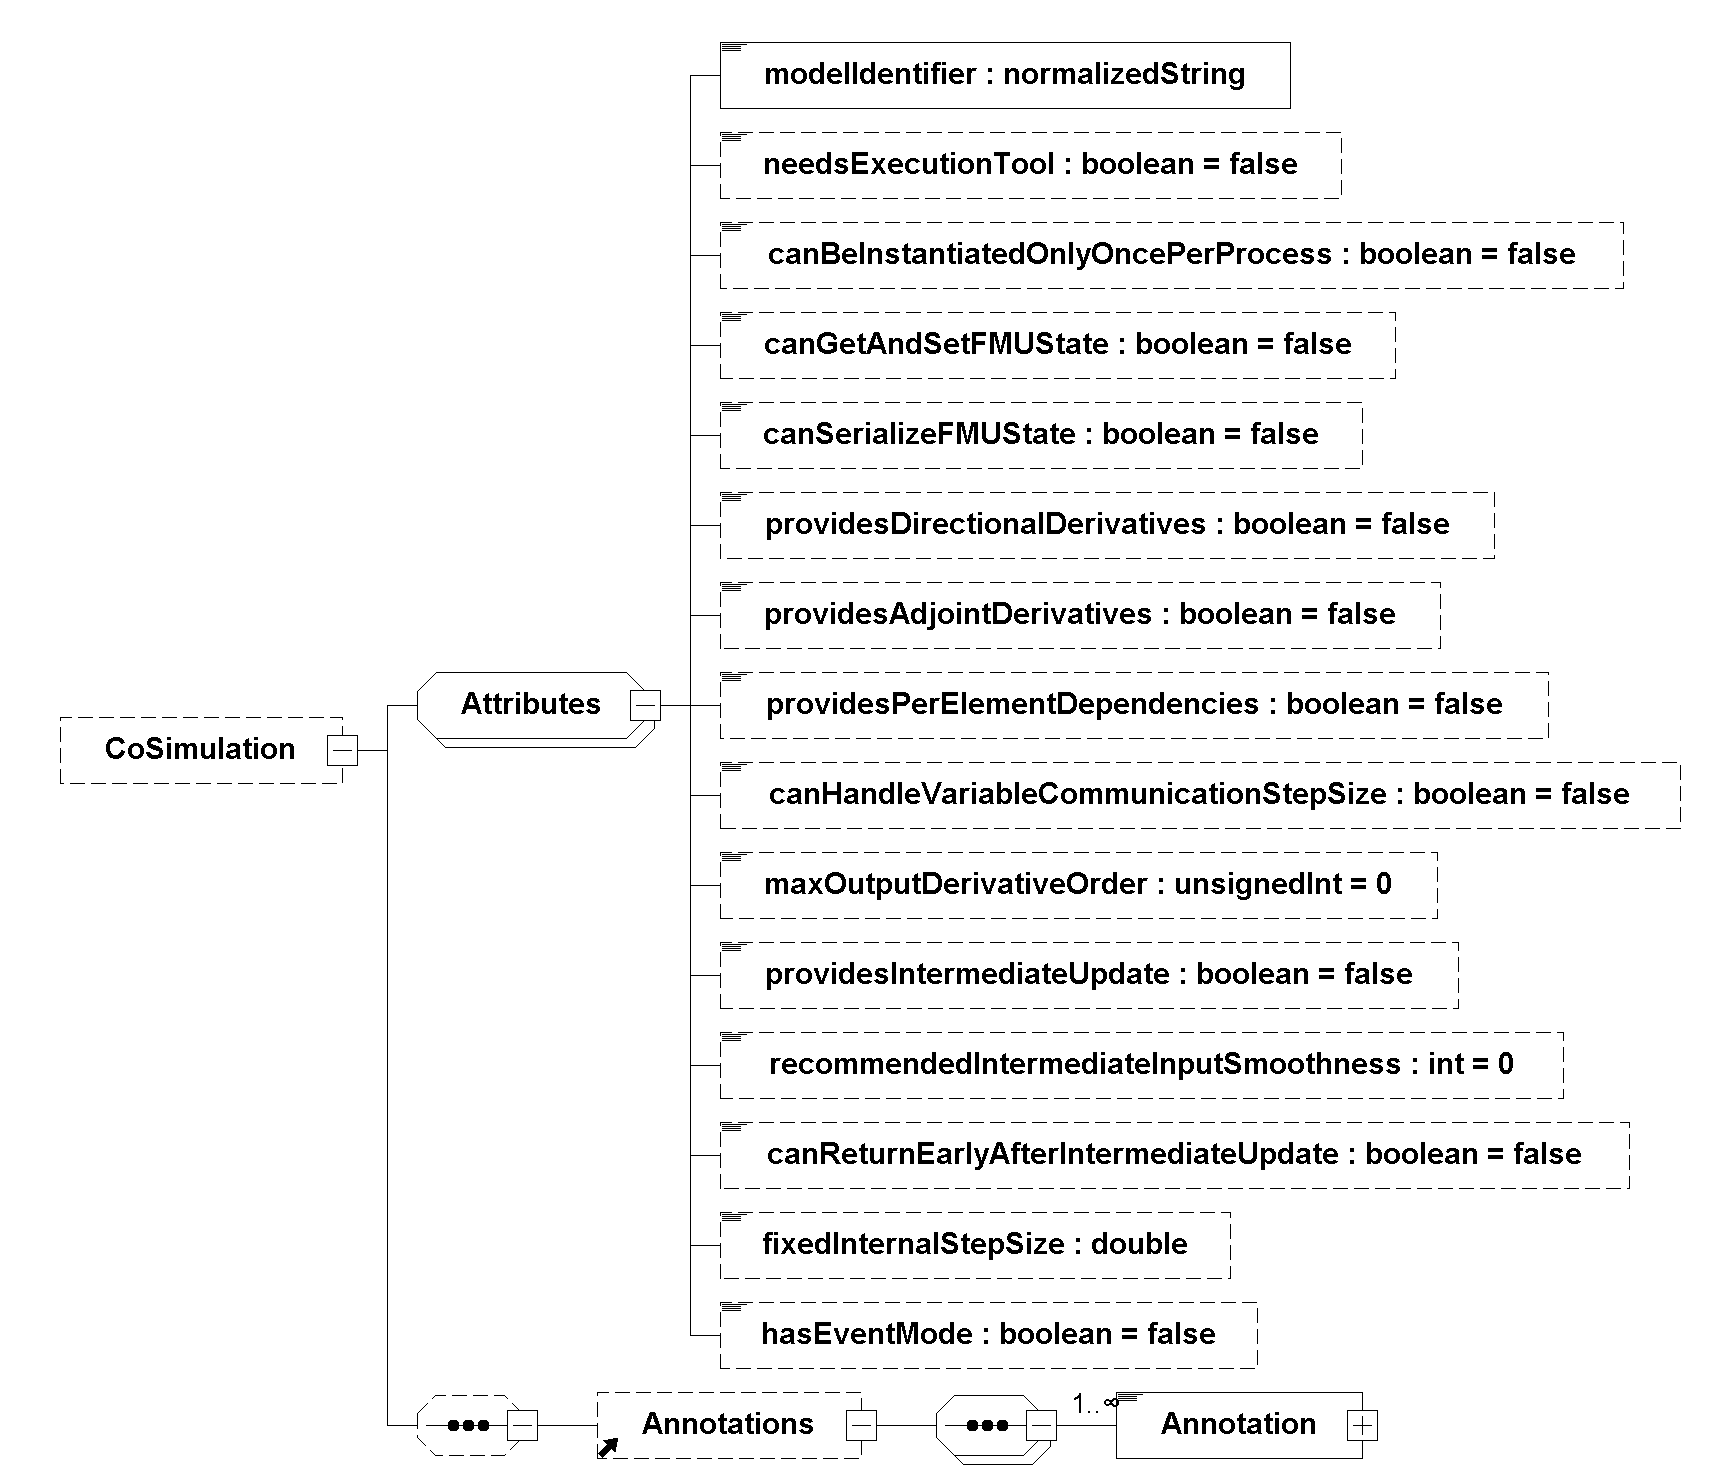
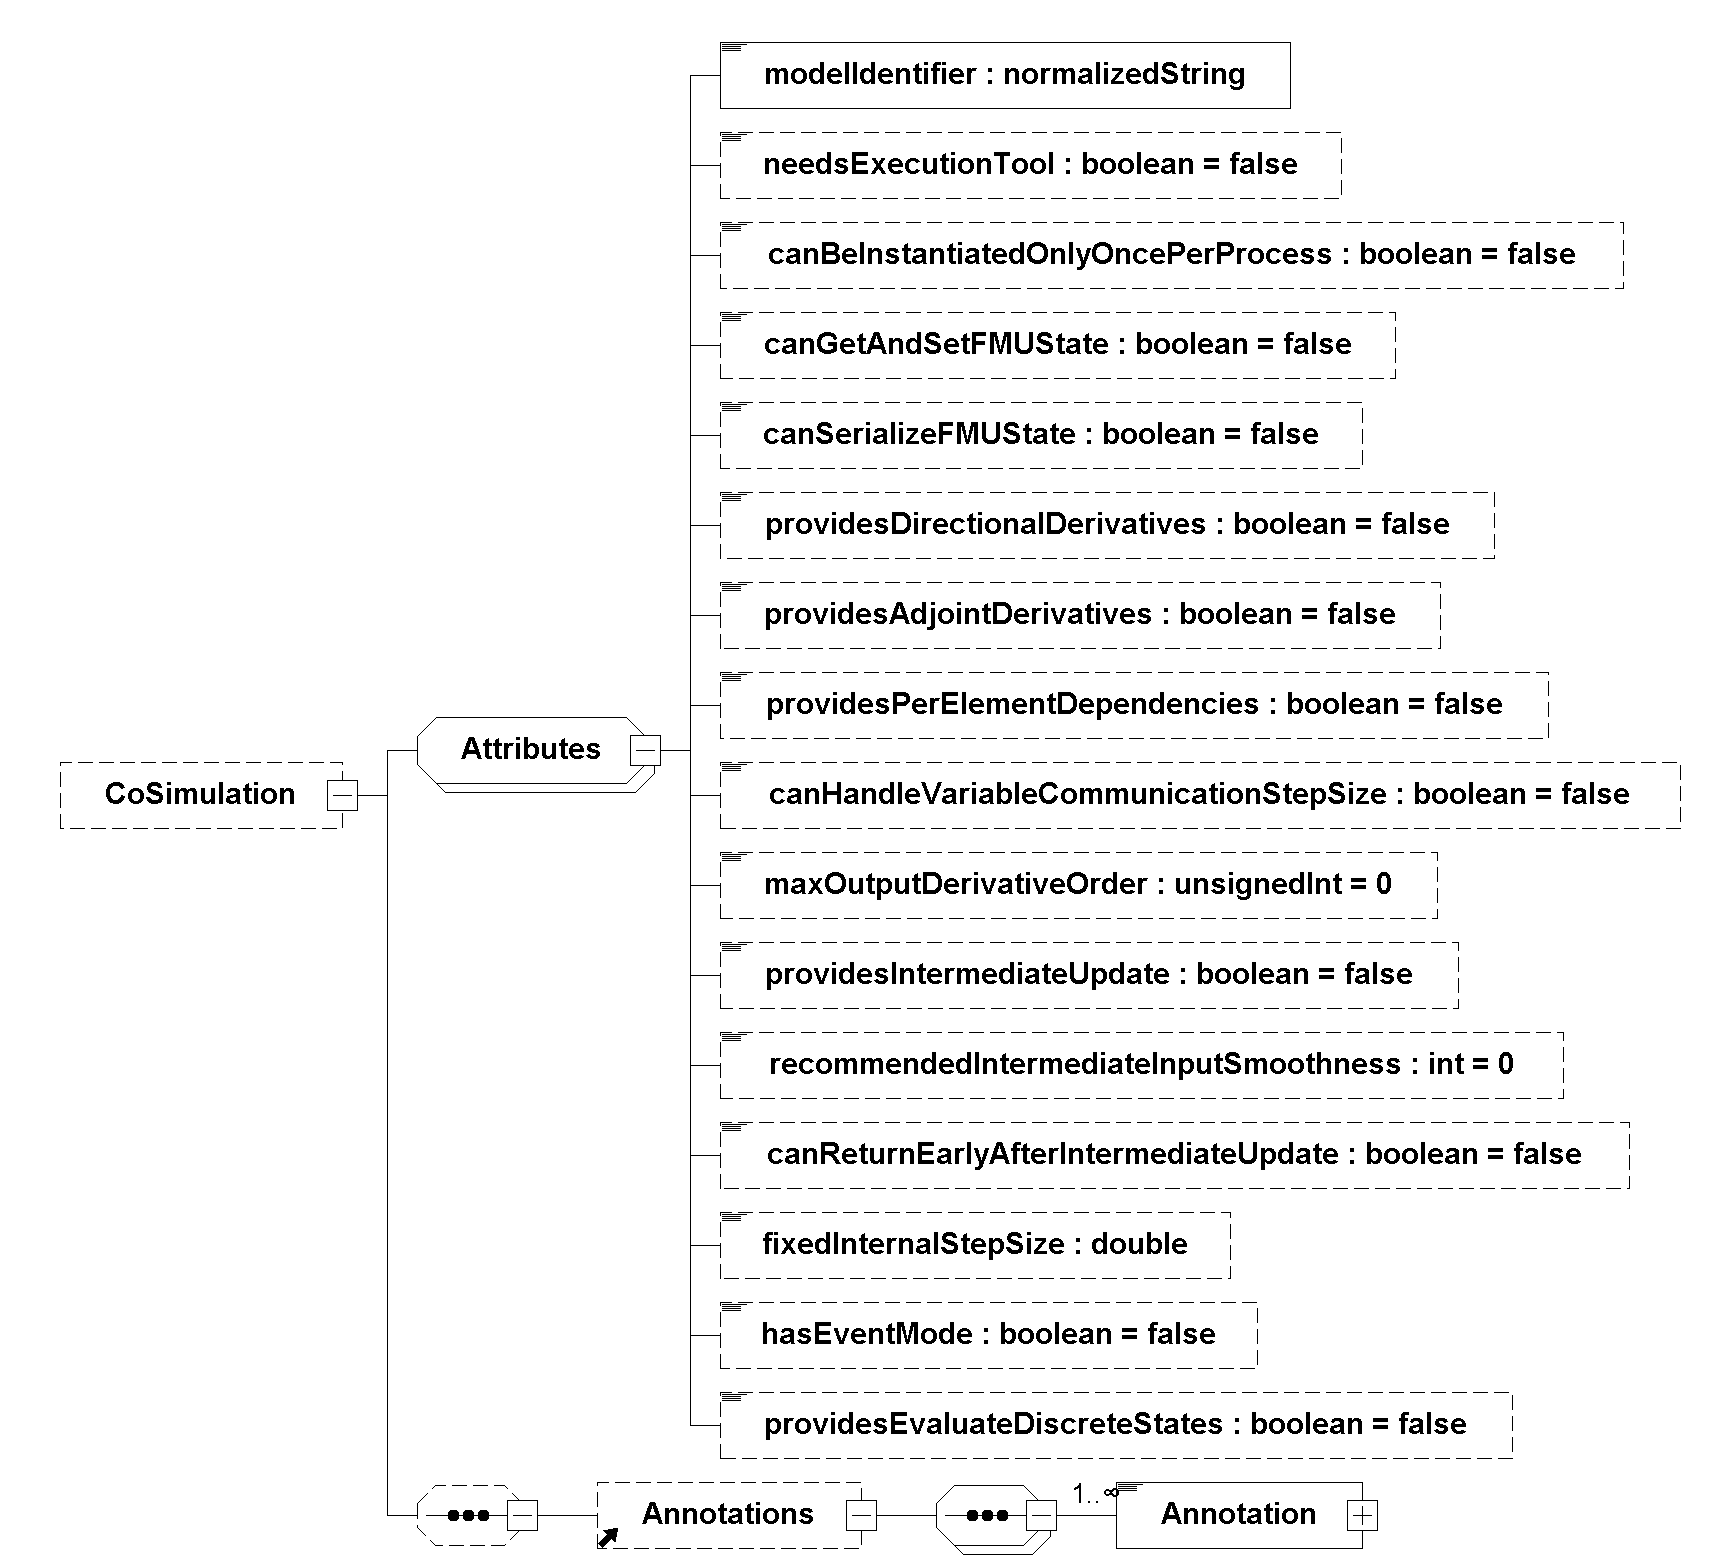
Update generated specification from fmi-standard (5e0f688)

diff --git a/docs/3.0-dev/index.html b/docs/3.0-dev/index.html
@@ -587,8 +587,8 @@ document.addEventListener('keydown', (event) => {
 <div id="header">
 <h1>Functional Mock-up Interface Specification</h1>
 <div class="details">
-<span id="revnumber">version 77d1760,</span>
-<span id="revdate">2021-07-28</span>
+<span id="revnumber">version 5e0f688,</span>
+<span id="revdate">2021-07-29</span>
 </div>
 <div id="toc" class="toc2">
 <div id="toctitle">Contents</div>
@@ -1398,8 +1398,7 @@ The real part \(\mathbf{t}_R\) of this tuple is the <a href="#independent"><code
 During continuous-time integration \(\mathbf{t}_I = 0\).
 The integer part \(\mathbf{t}_I\) of this tuple is a counter to enumerate (and therefore distinguish) the events at the same continuous-time instant \(\mathbf{t}_R\).
 This time definition is also called "super-dense time" in literature, see, for example, <a href="#LZ07">[LZ07]</a>.
-An ordering is defined on \(\mathbb{\text{T}}\) that leads to the notation in <a href="#table-model-exchange-math-notation">Table 2</a>.
-<em>[The notation \(^{\bullet}\mathbf{t}\) is from <a href="#BCP10">BCP10</a>, adapted from non-standard analysis to super-dense time, in order to precisely define the value from the previous event iteration.]</em></p>
+An ordering is defined on \(\mathbb{\text{T}}\) that leads to the notation in <a href="#table-model-exchange-math-notation">Table 2</a>.</p>
 </div>
 <table id="table-model-exchange-math-notation" class="tableblock frame-all grid-all stretch">
 <caption class="title">Table 2. Conventions and notation used.</caption>
@@ -1436,11 +1435,6 @@ An ordering is defined on \(\mathbb{\text{T}}\) that leads to the notation in <a
 <td class="tableblock halign-left valign-top"><p class="tableblock">left limit at \(\mathbf{t}\)</p></td>
 </tr>
 <tr>
-<td class="tableblock halign-center valign-top"><p class="tableblock">\(^{\bullet}\mathbf{t}\)</p></td>
-<td class="tableblock halign-left valign-top"><p class="tableblock">\(^{\bullet}{\left( \mathbf{t}_R,\mathbf{t}_I \right)\ } \Leftrightarrow \left\{ \begin{matrix} ^-t \ &amp; \mathbf{if} \ \mathbf{t}_I = 0 \\ (\mathbf{t}_R, \mathbf{t}_I - 1) \ &amp; \mathbf{if} \ \mathbf{t}_I &gt; 0 \\ \end{matrix} \right.\)</p></td>
-<td class="tableblock halign-left valign-top"><p class="tableblock">previous time instant (= either left limit or previous event instant).</p></td>
-</tr>
-<tr>
 <td class="tableblock halign-center valign-top"><p class="tableblock">\(v^+(\mathbf{t})\)</p></td>
 <td class="tableblock halign-left valign-top"><p class="tableblock">\(v(\mathbf{t}^+)\)</p></td>
 <td class="tableblock halign-left valign-top"><p class="tableblock">value at the right limit of \(\mathbf{t}\)</p></td>
@@ -1452,8 +1446,21 @@ An ordering is defined on \(\mathbb{\text{T}}\) that leads to the notation in <a
 </tr>
 <tr>
 <td class="tableblock halign-center valign-top"><p class="tableblock">\(^{\bullet}v(\mathbf{t})\)</p></td>
-<td class="tableblock halign-left valign-top"><p class="tableblock">\(v(^{\bullet}\mathbf{t})\)</p></td>
-<td class="tableblock halign-left valign-top"><p class="tableblock">previous value (= either left limit or value from the previous super-dense time instant)</p></td>
+<td class="tableblock halign-left valign-top"><p class="tableblock">\(
+\begin{cases}
+^{\bullet}v(t) \\
+^{\bullet}v(\left( \mathbf{t}_R,\mathbf{t}_I \right))
+\end{cases}
+\Leftrightarrow
+\begin{cases}
+ v(^-t) &amp; \text{ during } v(\left( \mathbf{t}_R, 0 \right)) \text{, v not clocked }  \\
+ v(\left( \mathbf{t}_R,\mathbf{t}_I - 1 \right)) &amp; \text{ for } v(\left( \mathbf{t}_R,\mathbf{t}_I \right)) \text{ with } I &gt; 0  \text{, v not clocked } \\
+ v \text{ at previous tick of C } &amp; \text{ if } v \text{ for clocked variable } v \text{ of clock C}
+\end{cases}
+\)</p></td>
+<td class="tableblock halign-left valign-top"><div class="content"><div class="paragraph">
+<p>previous value</p>
+</div></div></td>
 </tr>
 </tbody>
 </table>
@@ -2981,13 +2988,13 @@ Must be retrieved in <a href="#InitializationMode"><strong>Initialization Mode</
 <h5 id="clocked-variable">2.2.9.3. Model Partitions and Clocked Variables</h5>
 <div class="paragraph">
 <p>Each Clock \(\mathbf{k}\) induces a discrete system.
-It&#8217;s state advances at each tick of \(\mathbf{k}\) at time \(\mathbf{t}_{k}\).
-Such a system, also called the <a href="#model-partition">model partition</a> of \(\mathbf{k}\), is commonly written as:</p>
+It&#8217;s state advances at each tick of \(\mathbf{k}\).
+Such a system, also called the <a href="#model-partition">model partition</a> of \(\mathbf{k}\), is written as:</p>
 </div>
 <div class="paragraph">
 <p>\(\begin{align*}
-\mathbf{x}_k(\mathbf{t}_{k}) &amp;= \mathbf{f}_k(\mathbf{x}_k(\mathbf{t}_{k-1}), \mathbf{u}(\mathbf{t}_k), \mathbf{t}_k) \\
-\mathbf{y}_k(\mathbf{t}_{k}) &amp;= \mathbf{g}_k(\mathbf{x}_k(\mathbf{t}_{k}), \mathbf{u}(\mathbf{t}_k), \mathbf{t}_k)
+(\mathbf{x}_k) &amp;:= \mathbf{f}_{disc}(^\bullet{\mathbf{x}_k}, \mathbf{u}, \mathbf{t}) \\
+(\mathbf{y}_k) &amp;:= \mathbf{f}_{event}(\mathbf{x}_k, \mathbf{u}, \mathbf{t})
 \end{align*}\)</p>
 </div>
 <div class="paragraph">
@@ -2996,25 +3003,10 @@ Such a system, also called the <a href="#model-partition">model partition</a> of
 <div class="olist arabic">
 <ol class="arabic">
 <li>
-<p>\(\mathbf{t}_k\) denotes the simulation time of Clock \(\mathbf{k}\) at time \(\mathbf{t}_{k}\) and</p>
+<p>\(\mathbf{f}_{disc}\) denotes the state transition function and</p>
 </li>
 <li>
-<p>\(\mathbf{x}_k(\mathbf{t}_k)\) denotes the state vector at the current Clock tick at time \(\mathbf{t}_{k}\) and</p>
-</li>
-<li>
-<p>\(\mathbf{x}_k(\mathbf{t}_{k-1})\) denotes the state vector at the previous Clock tick of \(\mathbf{k}\) at \(\mathbf{t}_{k-1}\),</p>
-</li>
-<li>
-<p>\(\mathbf{f}_k\) denotes the state transition function and</p>
-</li>
-<li>
-<p>\(\mathbf{g}_k\) denotes the output function of the <a href="#model-partition">model partition</a> of \(\mathbf{k}\),</p>
-</li>
-<li>
-<p>\(\mathbf{u}\) denotes the input vector and</p>
-</li>
-<li>
-<p>\(\mathbf{y}_k\) denotes output vector computed by the <a href="#model-partition">model partition</a> of \(\mathbf{k}\).</p>
+<p>\(\mathbf{f}_{event}\) denotes the output function of the <a href="#model-partition">model partition</a> of \(\mathbf{k}\).</p>
 </li>
 </ol>
 </div>
@@ -3023,12 +3015,16 @@ Such a system, also called the <a href="#model-partition">model partition</a> of
 <em>The name "model partition" refers to the fact that an model inside an FMU may declare multiple Clocks, each with its own partition of the overall model.]</em></p>
 </div>
 <div class="paragraph">
-<p>When \(\mathbf{k}\) is active (i.e., ticking) invoking the FMI functions <code>fmi3Get{VariableType}</code> on variables in the output vector \(\mathbf{y}_k\) will trigger the execution of the output function \(\mathbf{g}_k\) to compute such variables.
-When FMI function <a href="#fmi3EvaluateDiscreteStates"><code>fmi3EvaluateDiscreteStates</code></a> is invoked, the state vector \(\mathbf{x}_k\) is updated according to state transition function \(\mathbf{f}_k\).
-The discrete-time variables \(\mathbf{x}_k\) and \(\mathbf{y}_k\) are called <a href="#clocked-variable">clocked variables</a>.</p>
+<p>When \(\mathbf{k}\) is active (i.e., ticking) invoking the FMI functions <code>fmi3Get{VariableType}</code> on variables in the output vector \(\mathbf{y}_k\) will trigger the execution of the output function \(\mathbf{f}_{event}\) to compute such variables.
+If <a href="#providesEvaluateDiscreteStates"><code>providesEvaluateDiscreteStates</code></a> is <code>false</code>, then \(\mathbf{f}_{disc}\) cannot be called explicitly using <a href="#fmi3EvaluateDiscreteStates"><code>fmi3EvaluateDiscreteStates</code></a>, but will be implicitly executed during \(\mathbf{f}_{event}\).
+When <a href="#fmi3EvaluateDiscreteStates"><code>fmi3EvaluateDiscreteStates</code></a> is called, the state vector \(\mathbf{x}_k\) is updated according to state transition function \(\mathbf{f}_{disc}\).</p>
 </div>
 <div class="paragraph">
-<p>A clocked variable \(\mathbf{v}_k\) can acquire a new value and can be queried only when its Clock \(\mathbf{k}\) is active, except during <a href="#InitializationMode"><strong>Initialization Mode</strong></a>.
+<p><em>[Separating</em> \(\mathbf{f}_{disc}\) <em>from</em> \(\mathbf{f}_{event}\) <em>allows manipulation of the current (discrete) state and compute the corresponding outputs.]</em></p>
+</div>
+<div class="paragraph">
+<p>The discrete-time variables \(\mathbf{x}_k\) and \(\mathbf{y}_k\) are called <a href="#clocked-variable">clocked variables</a>.
+A clocked variable \(\mathbf{v}_k\) can acquire a new value and can be queried only when its Clock \(\mathbf{k}\) is active, except during <a href="#InitializationMode"><strong>Initialization Mode</strong></a>.
 <em>[This is common in clock semantics. See, e.g., <a href="#MLS12">[MLS12]</a>.]</em>
 During <a href="#InitializationMode"><strong>Initialization Mode</strong></a>, if a clocked variable is declared as an <a href="#InitialUnknown"><code>&lt;InitialUnknown&gt;</code></a>, then it must be initialized as a discrete variable.
 Declaring a clocked variable as an <a href="#InitialUnknown"><code>&lt;InitialUnknown&gt;</code></a> is optional.
@@ -4638,24 +4634,24 @@ In <a href="#EventMode"><strong>Event Mode</strong></a> all continuous-time, dis
 <td class="tableblock halign-left valign-top"><p class="tableblock"><a href="#get-and-set-variable-values"><code>fmi3Set{VariableType}</code></a></p></td>
 </tr>
 <tr>
-<td class="tableblock halign-left valign-top"><p class="tableblock">Set continuous-time and discrete-time <a href="#input"><code>inputs</code></a> \(\mathbf{u}_{c+d}(\mathbf{t})\)</p></td>
+<td class="tableblock halign-left valign-top"><p class="tableblock">Set continuous-time and discrete-time <a href="#input"><code>inputs</code></a> \(\mathbf{u}_{c+d}\)</p></td>
 <td class="tableblock halign-left valign-top"><p class="tableblock"><a href="#get-and-set-variable-values"><code>fmi3Set{VariableType}</code></a></p></td>
 </tr>
 <tr>
 <td class="tableblock halign-left valign-top"><div class="content"><div class="ulist">
 <ul>
 <li>
-<p>Activate clocks and output equations of the respective model partitions</p>
+<p>Activate clocks and output equations of the respective model partitions.</p>
 </li>
 <li>
 <p>Deactivate clocks and</p>
 <div class="ulist">
 <ul>
 <li>
-<p>Reset respective clocked variables to their previous values: \(\mathbf{v}_{\mathit{k}} := {}^\bullet\mathbf{v}_{\mathit{k}}\)</p>
+<p>Reset respective clocked variables to their previous values: \(\mathbf{v}_{\mathit{k}} := {}^\bullet\mathbf{v}_{\mathit{k}}\), and</p>
 </li>
 <li>
-<p>Deactivate respective model partitions in \(\mathbf{f}_{\mathit{event}}\)</p>
+<p>Deactivate respective model partitions in \(\mathbf{f}_{\mathit{event}}\).</p>
 </li>
 </ul>
 </div>
@@ -4668,10 +4664,14 @@ In <a href="#EventMode"><strong>Event Mode</strong></a> all continuous-time, dis
 <td class="tableblock halign-left valign-top"><div class="content"><div class="ulist">
 <ul>
 <li>
-<p>Execute state transition function of the model partitions of the active clocks<br></p>
+<p>If <a href="#providesEvaluateDiscreteStates"><code>providesEvaluateDiscreteStates</code></a> is <code>true</code>, then execute state transition function of the model partitions<br>
+\((\mathbf{x}_{d}) := \mathbf{f}_{\mathit{disc}}({}^\bullet\mathbf{x}_{c+d}, \mathbf{u}_{c+d}, \mathbf{p}, {}^\bullet\mathbf{b}, \mathbf{t})\)</p>
 </li>
 <li>
-<p>\((\mathbf{x}_{d}) := \mathbf{f}_{\mathit{disc}}({}^\bullet\mathbf{x}_{c+d}, \mathbf{u}_{c+d}, \mathbf{p}, {}^\bullet\mathbf{b}, \mathbf{t})\)</p>
+<p>else function is ignored.</p>
+</li>
+<li>
+<p>For all active Clocks \(\mathbf{k}\), the <a href="#clocked-variable">clocked variables</a> \(\mathbf{v}_k\) are part of the set of discrete variables \(\mathbf{v}_d\) computed by \(\mathbf{f}_{\mathit{disc}}\).</p>
 </li>
 </ul>
 </div></div></td>
@@ -4681,10 +4681,23 @@ In <a href="#EventMode"><strong>Event Mode</strong></a> all continuous-time, dis
 <td class="tableblock halign-left valign-top"><div class="content"><div class="ulist">
 <ul>
 <li>
-<p>Executes output equations of models partitions of active clock.<br></p>
+<p>Computes \(\mathbf{f}_{\mathit{event}}\) depending on</p>
+<div class="ulist">
+<ul>
+<li>
+<p>if <a href="#providesEvaluateDiscreteStates"><code>providesEvaluateDiscreteStates</code></a> is <code>true</code>, then<br>
+\((\mathbf{y}_{c+d}, \mathbf{\dot{x}}_c, \mathbf{x}_{c}, \mathbf{z}, \mathbf{r}, \mathbf{w}_{c+d}, \mathbf{b}, \mathbf{T}_{\mathit{next}}) := \mathbf{f}_{\mathit{event}}({}^\bullet\mathbf{x}_{c+d}, \mathbf{x}_{d}, \mathbf{u}_{c+d}, \mathbf{p}, {}^\bullet\mathbf{b}, \mathbf{t})\)</p>
 </li>
 <li>
-<p>\((\mathbf{y}_{c+d}, \mathbf{\dot{x}}_c, \mathbf{x}_{c}, \mathbf{z}, \mathbf{r}, \mathbf{w}_{c+d}, \mathbf{b}, \mathbf{T}_{\mathit{next}}) := \mathbf{f}_{\mathit{event}}({}^\bullet\mathbf{x}_{c+d}, \mathbf{x}_{d}, \mathbf{u}_{c+d}, \mathbf{p}, {}^\bullet\mathbf{b}, \mathbf{t})\)</p>
+<p>else<br>
+\((\mathbf{y}_{c+d}, \mathbf{\dot{x}}_c, \mathbf{x}_{c+d}, \mathbf{z}, \mathbf{r}, \mathbf{w}_{c+d}, \mathbf{b}, \mathbf{T}_{\mathit{next}}) := \mathbf{f}_{\mathit{event}}({}^\bullet\mathbf{x}_{c+d}, \mathbf{u}_{c+d}, \mathbf{p}, {}^\bullet\mathbf{b}, \mathbf{t})\)<br>
+  which includes \(\mathbf{f}_{\mathit{disc}}\).</p>
+</li>
+</ul>
+</div>
+</li>
+<li>
+<p>For all active Clocks \(\mathbf{k}\), the <a href="#clocked-variable">clocked variables</a> \(\mathbf{v}_k\) are part of the set of discrete variables \(\mathbf{v}_d\) computed by \(\mathbf{f}_{\mathit{event}}\).</p>
 </li>
 </ul>
 </div></div></td>
@@ -4700,22 +4713,32 @@ In <a href="#EventMode"><strong>Event Mode</strong></a> all continuous-time, dis
 <p>Signals end of super-dense time instant.</p>
 </li>
 <li>
-<p>Evaluate \(\mathbf{f}_{\mathit{disc}}\), if no <a href="#fmi3EvaluateDiscreteStates"><code>fmi3EvaluateDiscreteStates</code></a> function was called in this instant of super-dense time.</p>
+<p>Compute</p>
+<div class="ulist">
+<ul>
+<li>
+<p>\(\mathbf{f}_{\mathit{disc}}\) if <a href="#providesEvaluateDiscreteStates"><code>providesEvaluateDiscreteStates</code></a> is <code>true</code> and \(\mathbf{f}_{\mathit{disc}}\) (<a href="#fmi3EvaluateDiscreteStates"><code>fmi3EvaluateDiscreteStates</code></a>) was not called within this super-dense time, or</p>
+</li>
+<li>
+<p>\(\mathbf{f}_{\mathit{event}}\) if <a href="#providesEvaluateDiscreteStates"><code>providesEvaluateDiscreteStates</code></a> is <code>false</code> and \(\mathbf{f}_{\mathit{event}}\) was not called within this super-dense time.</p>
+</li>
+</ul>
+</div>
 </li>
 <li>
 <p>\((\mathbf{T}_\mathit{interval}) := \mathbf{f}_{\mathit{update}}({}^\bullet\mathbf{x}_{c+d}, \mathbf{u}_{c+d}, \mathbf{p}, {}^\bullet\mathbf{b}, \mathbf{t})\)</p>
 </li>
 <li>
-<p>Update previous values of discrete states: \({}^\bullet\mathbf{x}_d:=\mathbf{x}_d\)</p>
+<p>Update previous values of discrete states: \({}^\bullet\mathbf{x}_d:=\mathbf{x}_d\).</p>
 </li>
 <li>
-<p>Update previous values of <a href="#buffers">buffers</a>: \({}^\bullet\mathbf{b}:=\mathbf{b}\)</p>
+<p>Update previous values of <a href="#buffers">buffers</a>: \({}^\bullet\mathbf{b}:=\mathbf{b}\).</p>
 </li>
 <li>
-<p>Deactivate active clocks and respective model partitions</p>
+<p>Deactivate active clocks and respective model partitions.</p>
 </li>
 <li>
-<p>Increment super-dense time: \(\mathbf{t}:=(\mathbf{t}_\mathit{R}, \mathbf{t}_\mathit{I} + 1)\)</p>
+<p>Increment super-dense time: \(\mathbf{t}:=(\mathbf{t}_\mathit{R}, \mathbf{t}_\mathit{I} + 1)\).</p>
 </li>
 </ul>
 </div></div></td>
@@ -4725,13 +4748,13 @@ In <a href="#EventMode"><strong>Event Mode</strong></a> all continuous-time, dis
 <td class="tableblock halign-left valign-top"><div class="content"><div class="ulist">
 <ul>
 <li>
-<p><a id="updateRelations"></a>Update previous values of <a href="#relations">relations</a>: \({}^\bullet\mathbf{r}:=\mathbf{r}\)</p>
+<p><a id="updateRelations"></a>Update previous values of <a href="#relations">relations</a>: \({}^\bullet\mathbf{r}:=\mathbf{r}\).</p>
 </li>
 <li>
-<p>Deactivate event equations \(\mathbf{f}_\mathit{event}\)</p>
+<p>Deactivate event equations \(\mathbf{f}_\mathit{event}\).</p>
 </li>
 <li>
-<p>Model Exchange: Activate continuous-time equations \(\mathbf{f}_\mathit{cont}\)</p>
+<p>Model Exchange: Activate continuous-time equations \(\mathbf{f}_\mathit{cont}\).</p>
 </li>
 </ul>
 </div></div></td>
@@ -4803,7 +4826,8 @@ Can only be called in Model Exchange.</p>
 </dd>
 <dt class="hdlist1">Function <a href="#fmi3EvaluateDiscreteStates"><code>fmi3EvaluateDiscreteStates</code></a></dt>
 <dd>
-<p>Evaluate \(\mathbf{f}_{\mathit{disc}}\) to obtain current values of discrete states from previous values.</p>
+<p>The FMU signals the support of <a href="#fmi3EvaluateDiscreteStates"><code>fmi3EvaluateDiscreteStates</code></a> via the capability flag <a href="#providesEvaluateDiscreteStates"><code>providesEvaluateDiscreteStates</code></a>.
+Evaluate \(\mathbf{f}_{\mathit{disc}}\) to obtain current values of discrete states from previous values.</p>
 <div id="fmi3EvaluateDiscreteStates" class="listingblock">
 <div class="content">
 <pre class="highlightjs highlight"><code class="language-C hljs" data-lang="C">typedef fmi3Status fmi3EvaluateDiscreteStatesTYPE(fmi3Instance instance);</code></pre>
@@ -5712,10 +5736,15 @@ This flag is ignored in <code>ModelExchange</code>.</p></td>
 This flag is ignored in <code>ModelExchange</code>.</p></td>
 </tr>
 <tr>
+<td class="tableblock halign-left valign-top"><p class="tableblock"><a id="providesEvaluateDiscreteStates"></a> <code>providesEvaluateDiscreteStates</code></p></td>
+<td class="tableblock halign-left valign-top"><p class="tableblock">The FMU supports <a href="#fmi3EvaluateDiscreteStates"><code>fmi3EvaluateDiscreteStates</code></a>, if <code>true</code>.
+This flag is ignored in <code>ScheduledExecution</code>.</p></td>
+</tr>
+<tr>
 <td class="tableblock halign-left valign-top"><p class="tableblock"><a id="recommendedIntermediateInputSmoothness"></a> <code>recommendedIntermediateInputSmoothness</code></p></td>
 <td class="tableblock halign-left valign-top"><p class="tableblock">A value of \(k\) with \(k&gt;0\) signals to the co-simulation algorithm, that it is beneficial for the solver to receive intermediate inputs that are k-time continuously differentiable (\(C^k\)) on the current communication interval.
 \(k=0\) means continuous (see <a href="#smoothness">Section 4.1.1</a>).<br>
-This flag is not supported in <code>ModelExchange</code>.</p></td>
+This flag is ignored in <code>ModelExchange</code>.</p></td>
 </tr>
 </tbody>
 </table>
